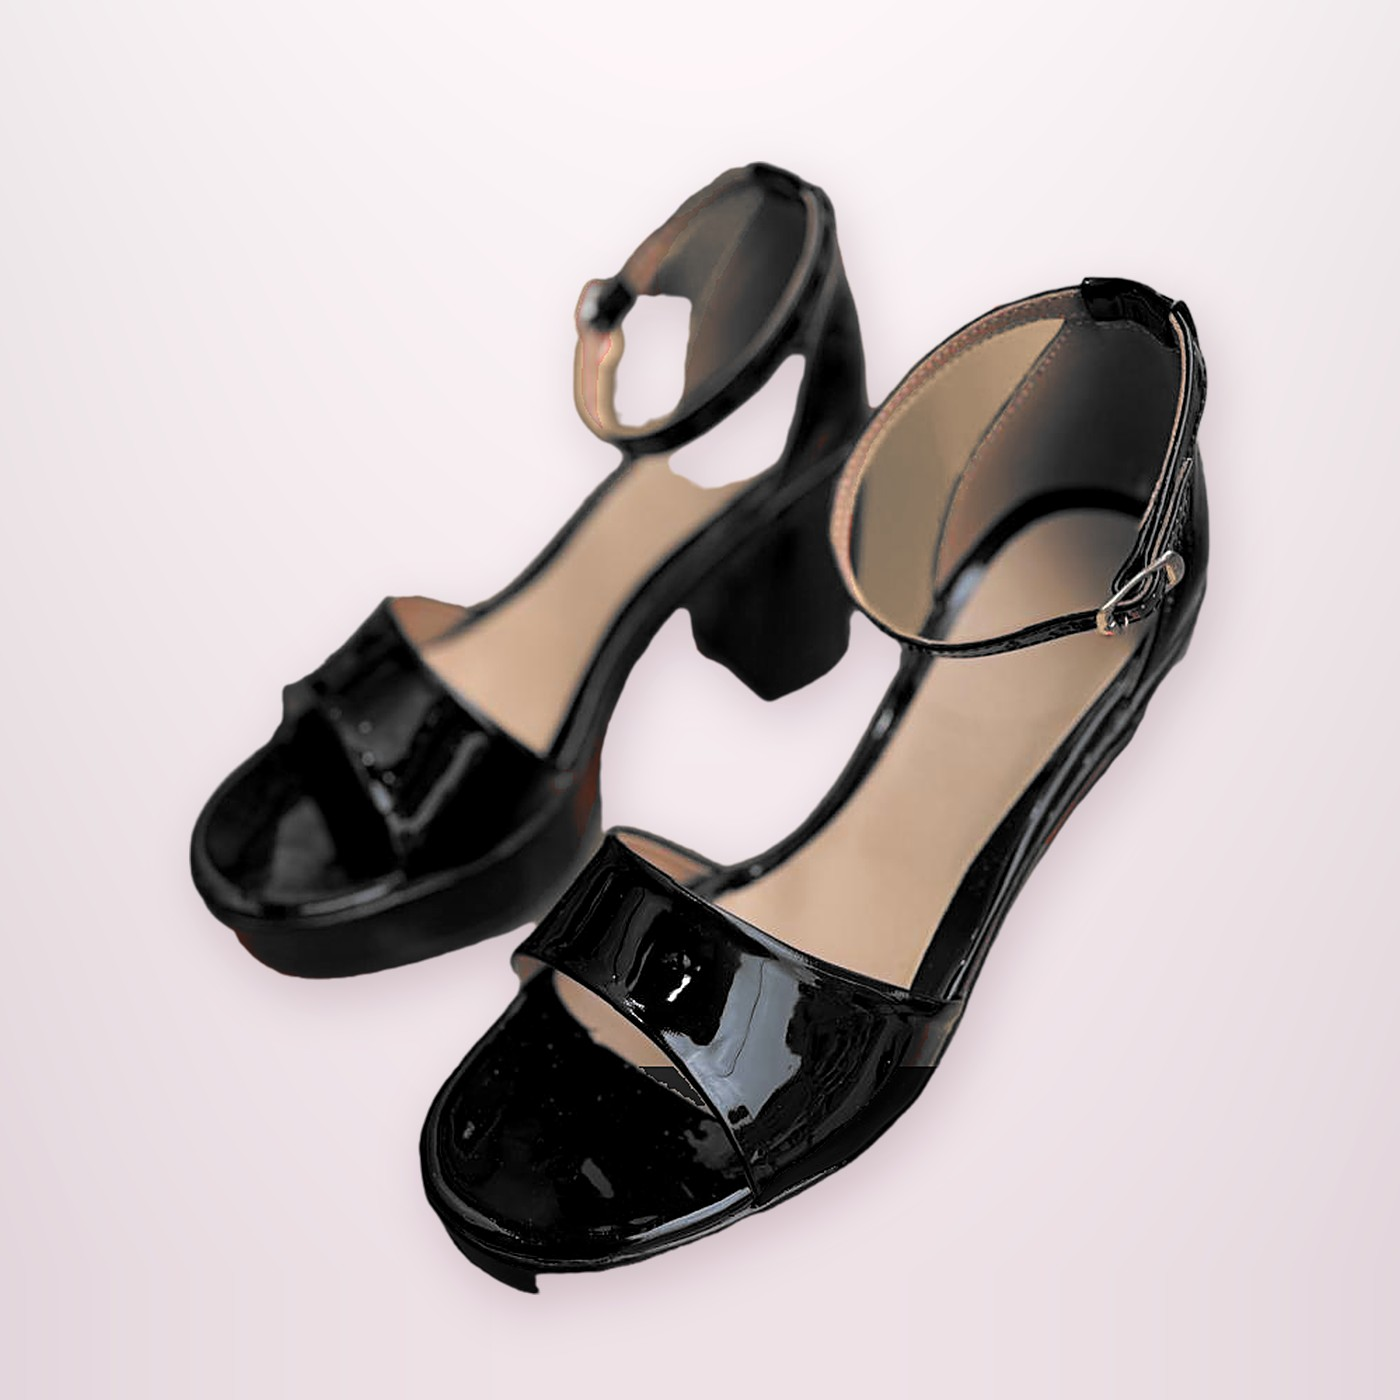
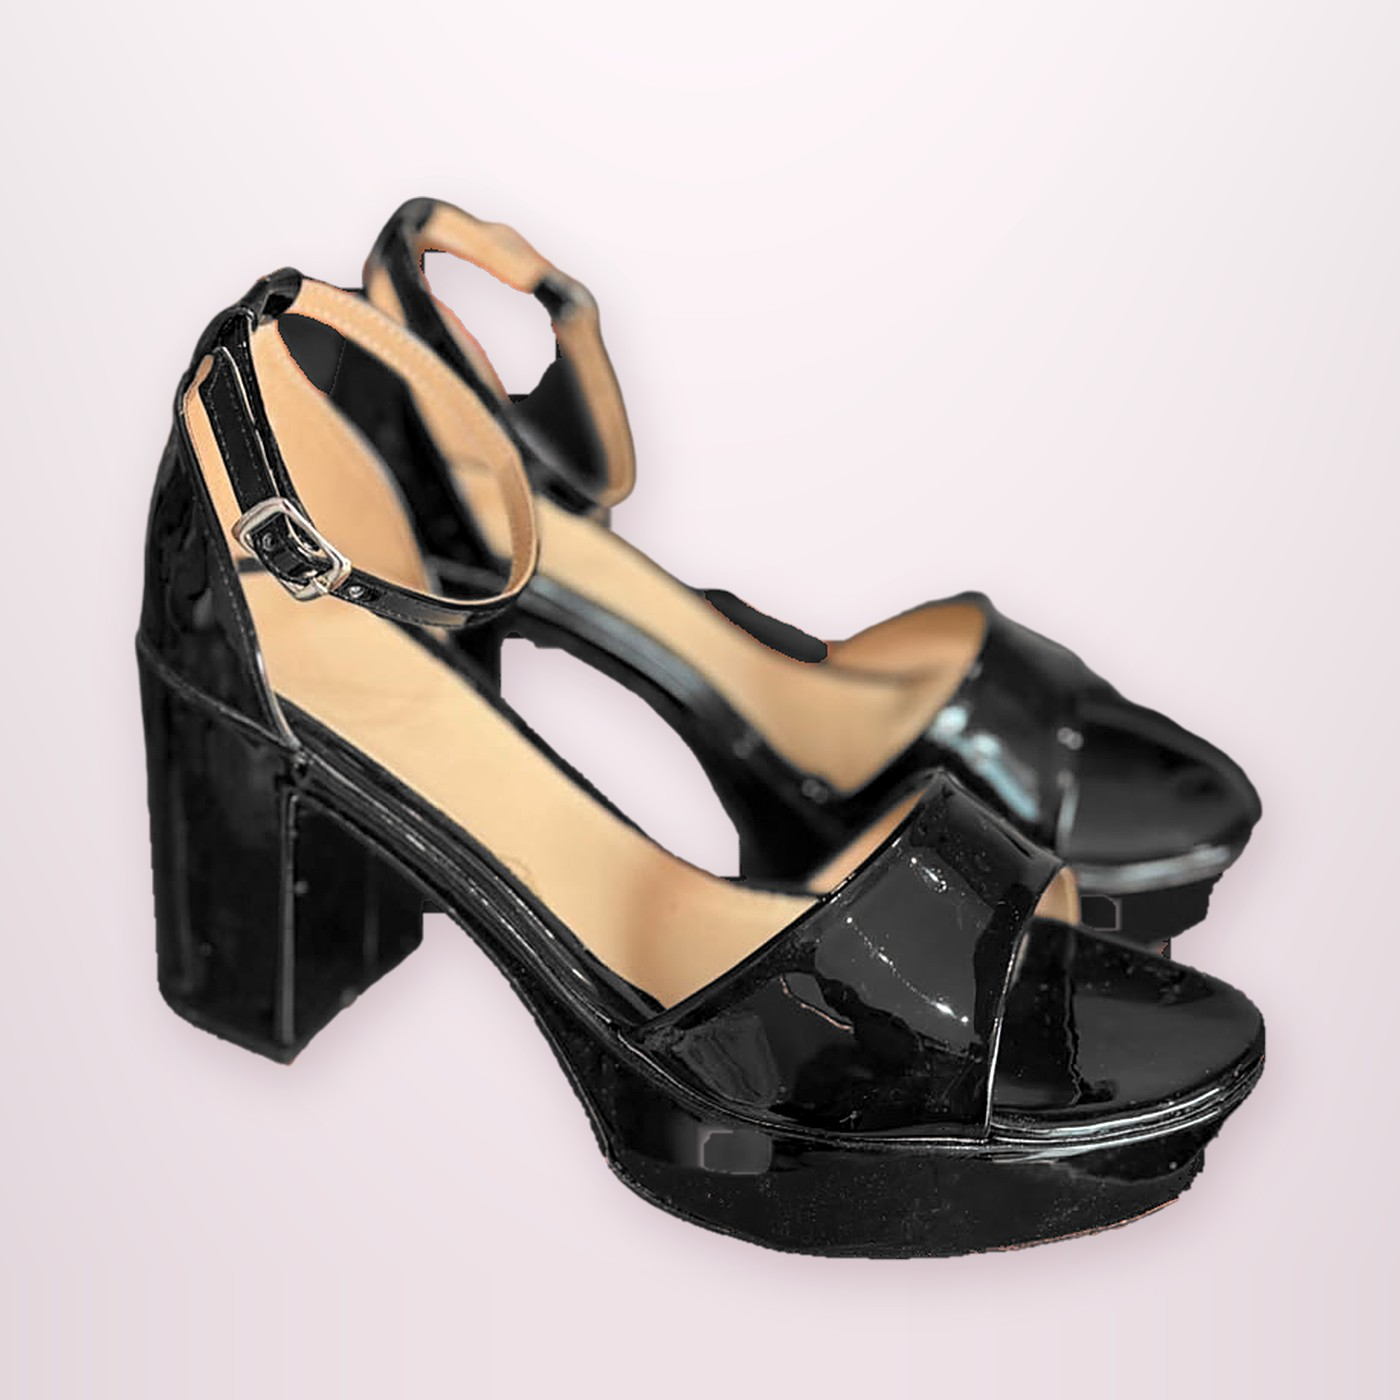
Sandalia de charol: foto nueva donde se ven los dos tacos
Claude-Session: https://claude.ai/code/session_016kC1pPyL2jkNLS5KGy46ZW

diff --git a/CLAUDE.md b/CLAUDE.md
@@ -50,7 +50,7 @@ No hay Node ni Python en las computadoras. `.claude/launch.json` → "tienda" le
 - Chavitos con cordones con suela de borcego (id 90, 2026-09-29, sección Chavitos): Negro, $27.500 ($25.000 + 10%), talles 35–40, foto propia (se borraron los parches con logo "Tamara Rey" y la etiqueta colgante).
 - Suecos Olivia (id 91, 2026-09-29, gamuza con flecos y cordones; distinto del sueco con flecos y borlas id 26): Negro y Bison, $33.000 ($30.000 + 10%), talles 35–40, fotos propias.
 - Sandalia de taco alto con plataforma y tiras cruzadas (id 92, 2026-09-29, en la caja dice "Umma"): Negro, $33.000 ($30.000 + 10%), talles 35–40, foto propia. Distinta de la id 23 (ojalillos).
-- Sandalia de charol con plataforma y taco (id 93, 2026-10-03): Negro, $38.500 ($35.000 + 10%), talles 35–40, foto propia (los reflejos naranjas de la caja en el charol se pasaron a negro/forro).
+- Sandalia de charol con plataforma y taco (id 93, 2026-10-03): Negro, $38.500 ($35.000 + 10%), talles 35–40, foto propia. 2026-10-09: foto rehecha con una toma de costado (en la anterior el recorte se había comido el taco de una sandalia, el dueño lo marcó); los reflejos naranjas de la caja en el charol se pasaron a gris/negro.
 - Sandalia de dos tiras anchas (id 94, 2026-10-03): Negro (base negra) y Blanco (base suela), $27.500 ($25.000 + 10%), talles 35–40, fotos propias.
 - Sandalia gomón de tiras cruzadas (id 95, 2026-10-03; era "Chinela…", el dueño pidió sacar "chinela"): Negro, $33.000 ($30.000 + 10%), talles 35–40, foto propia. Distinta de la id 18 (lisa, base más baja).
 - Borcego con correas y tachas (id 96, 2026-10-07): Chocolate, $38.500 ($35.000 + 10%), talles 35–40, foto propia (la puntera metálica reflejaba el naranja de la caja: se pasó a plateado).
